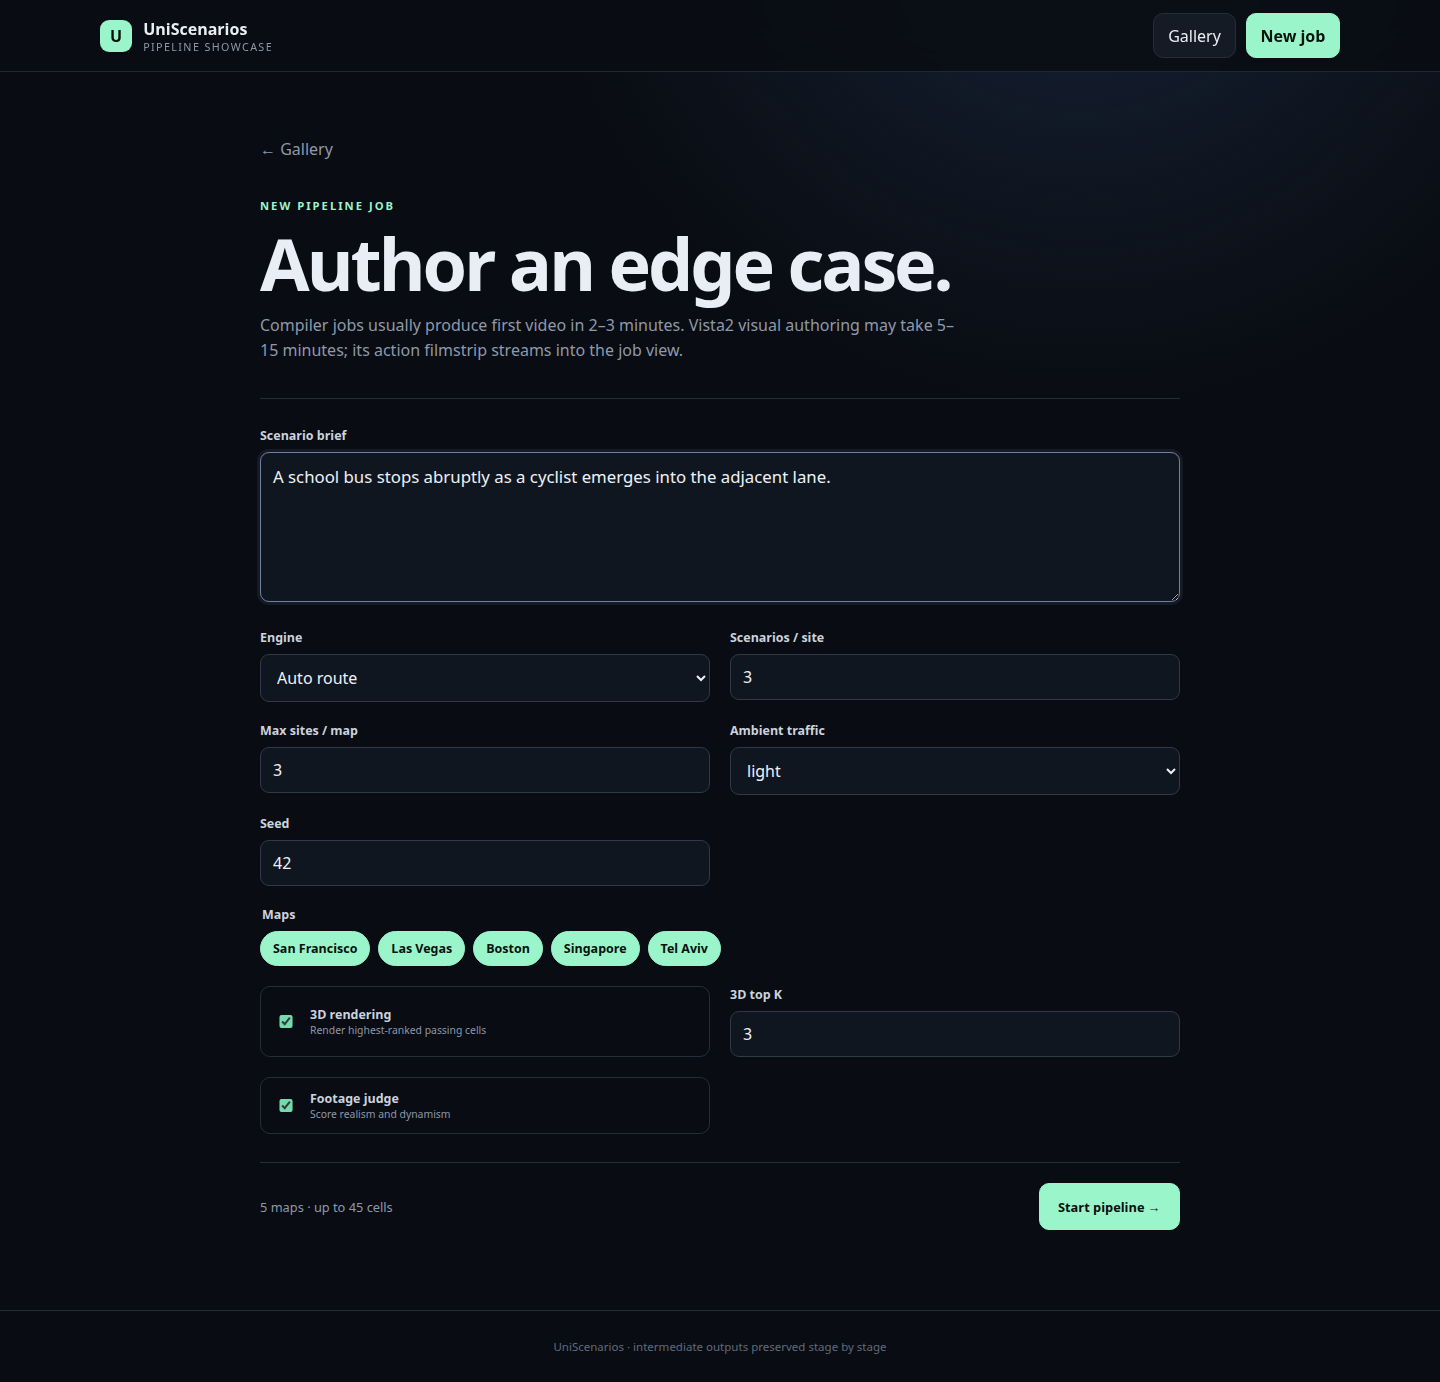
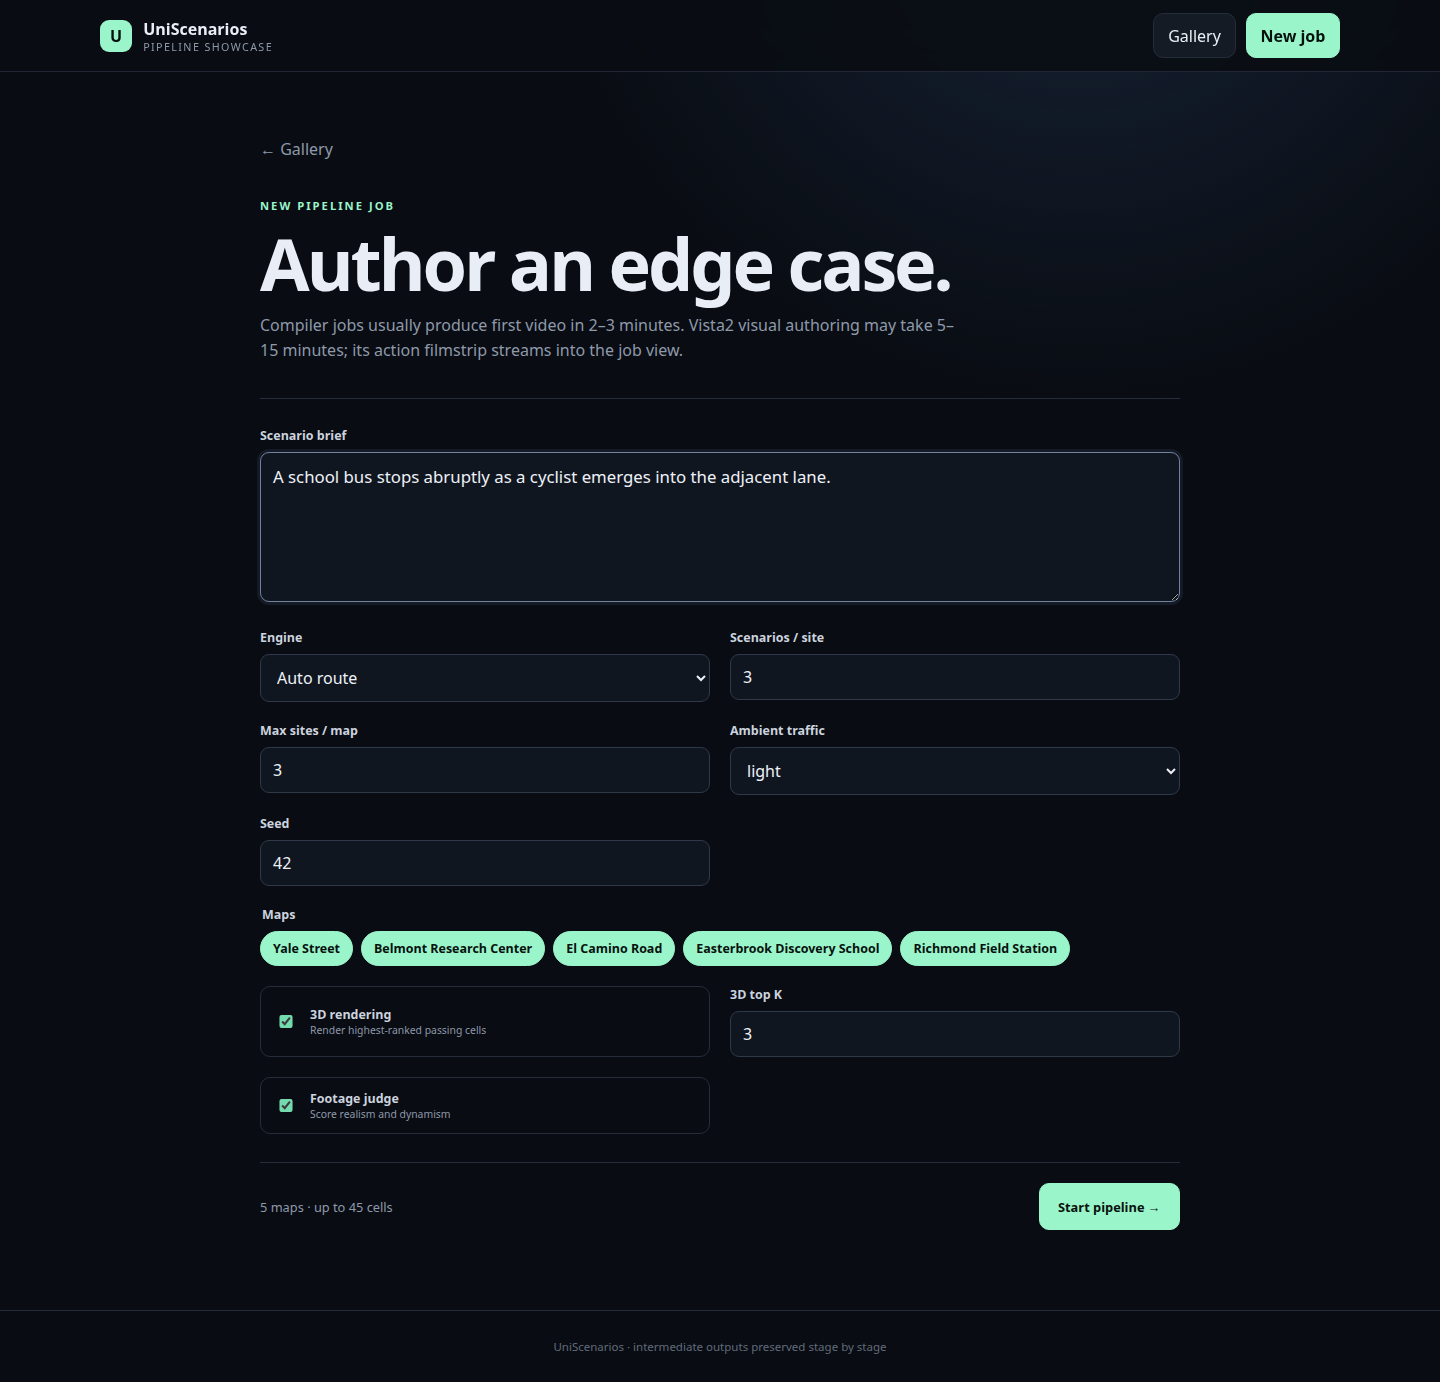
showcase(p4): use canonical map ids in submit flow

Changed region(s): [[0.1875, 0.6534, 0.75, 0.7156]]

diff --git a/apps/showcase/web/src/main.tsx b/apps/showcase/web/src/main.tsx
@@ -5,7 +5,14 @@ import { artifactKind, artifacts, cardId, cardMedia, cells, stageList, STAGES } 
 import type { Artifact, GalleryCard, JobIndex, StageEvent, SubmitPayload } from './types';
 import './style.css';
 
-const MAPS = ['San Francisco', 'Las Vegas', 'Boston', 'Singapore', 'Tel Aviv'];
+const MAPS = [
+  ['yale-street', 'Yale Street'],
+  ['belmont-research-center', 'Belmont Research Center'],
+  ['el-camino-road', 'El Camino Road'],
+  ['easterbrook-discovery-school', 'Easterbrook Discovery School'],
+  ['richmond-field-station', 'Richmond Field Station'],
+] as const;
+const mapLabel = (id: string) => MAPS.find(([mapId]) => mapId === id)?.[1] ?? id;
 
 function navigate(hash: string) { location.hash = hash; }
 function useRoute() {
@@ -39,7 +46,7 @@ function Gallery() {
       const id = cardId(card); const admitted = card.admitted ?? card.admittedCells ?? 0; const total = card.total ?? card.totalCells ?? 0;
       return <article class="gallery-card" key={id} onClick={() => navigate(`#/jobs/${encodeURIComponent(id)}`)} tabindex={0} onKeyDown={(e) => e.key === 'Enter' && navigate(`#/jobs/${encodeURIComponent(id)}`)}>
         <Media source={cardMedia(card)} label={card.brief ?? 'Scenario render'} loop />
-        <div class="card-body"><div class="chip-row"><Chip tone="engine">{card.engine ?? 'auto'}</Chip><Chip tone={admitted ? 'pass' : 'fail'}>{admitted}/{total} admitted</Chip></div><h2>{card.headline ?? card.brief ?? 'Untitled scenario'}</h2>{card.headline && <p>{card.brief}</p>}<div class="chip-row"><Score label="Realism" value={card.realism} /><Score label="Dynamism" value={card.dynamism} /></div><div class="map-row">{card.maps?.map((map) => <Chip key={map}>{map}</Chip>)}</div></div>
+        <div class="card-body"><div class="chip-row"><Chip tone="engine">{card.engine ?? 'auto'}</Chip><Chip tone={admitted ? 'pass' : 'fail'}>{admitted}/{total} admitted</Chip></div><h2>{card.headline ?? card.brief ?? 'Untitled scenario'}</h2>{card.headline && <p>{card.brief}</p>}<div class="chip-row"><Score label="Realism" value={card.realism} /><Score label="Dynamism" value={card.dynamism} /></div><div class="map-row">{card.maps?.map((map) => <Chip key={map}>{mapLabel(map)}</Chip>)}</div></div>
       </article>;
     })}</section>}
   </main>;
@@ -63,7 +70,7 @@ function StageCard({ event, index }: { event: StageEvent; index: number }) {
 function verdict(value?: boolean) { return value == null ? '—' : value ? 'PASS' : 'FAIL'; }
 function CellGrid({ job }: { job: JobIndex | null }) {
   const rows = cells(job); if (!rows.length) return <div class="empty small">Cells appear after simulation.</div>;
-  return <div class="cell-grid">{rows.map((cell) => { const gate = typeof cell.gate === 'boolean' ? cell.gate : cell.gate?.pass ?? cell.gate?.admitted; const judge = cell.judge; return <details class="cell" key={cell.cellId ?? cell.id}><summary><div><small>{cell.map ?? 'map'}</small><b>{cell.cellId ?? cell.id}</b></div><Chip tone={gate === true ? 'pass' : gate === false ? 'fail' : ''}>{verdict(gate)}</Chip></summary><div class="cell-body"><div class="chip-row"><Score label="Realism" value={judge?.realism} /><Score label="Dynamism" value={judge?.dynamism} />{judge?.plausible != null && <Chip tone={judge.plausible ? 'pass' : 'fail'}>{judge.plausible ? 'plausible' : 'implausible'}</Chip>}</div>{typeof cell.gate === 'object' && cell.gate.firstFailure && <p class="failure">First failure: {cell.gate.firstFailure}</p>}<div class="artifacts">{artifacts(cell).map((item, i) => <ArtifactView key={i} artifact={item} />)}</div><pre>{JSON.stringify(cell, null, 2)}</pre></div></details>; })}</div>;
+  return <div class="cell-grid">{rows.map((cell) => { const gate = typeof cell.gate === 'boolean' ? cell.gate : cell.gate?.pass ?? cell.gate?.admitted; const judge = cell.judge; return <details class="cell" key={cell.cellId ?? cell.id}><summary><div><small>{cell.map ? mapLabel(cell.map) : 'map'}</small><b>{cell.cellId ?? cell.id}</b></div><Chip tone={gate === true ? 'pass' : gate === false ? 'fail' : ''}>{verdict(gate)}</Chip></summary><div class="cell-body"><div class="chip-row"><Score label="Realism" value={judge?.realism} /><Score label="Dynamism" value={judge?.dynamism} />{judge?.plausible != null && <Chip tone={judge.plausible ? 'pass' : 'fail'}>{judge.plausible ? 'plausible' : 'implausible'}</Chip>}</div>{typeof cell.gate === 'object' && cell.gate.firstFailure && <p class="failure">First failure: {cell.gate.firstFailure}</p>}<div class="artifacts">{artifacts(cell).map((item, i) => <ArtifactView key={i} artifact={item} />)}</div><pre>{JSON.stringify(cell, null, 2)}</pre></div></details>; })}</div>;
 }
 
 function JobDetail({ id }: { id: string }) {
@@ -77,7 +84,7 @@ function JobDetail({ id }: { id: string }) {
   </main>;
 }
 
-const initial: SubmitPayload = { brief: '', engine: 'auto', nScenarios: 3, maps: [...MAPS], maxSitesPerMap: 3, ambient: 'light', seed: 42, render3d: true, topK: 3, judge: true };
+const initial: SubmitPayload = { brief: '', engine: 'auto', nScenarios: 3, maps: MAPS.map(([id]) => id), maxSitesPerMap: 3, ambient: 'light', seed: 42, render3d: true, topK: 3, judge: true };
 function Submit() {
   const [form, setForm] = useState(initial); const [busy, setBusy] = useState(false); const [error, setError] = useState<unknown>();
   const update = <K extends keyof SubmitPayload>(key: K, value: SubmitPayload[K]) => setForm((old) => ({ ...old, [key]: value }));
@@ -89,7 +96,7 @@ function Submit() {
       <label><span>Max sites / map</span><input type="number" min="1" max="20" value={form.maxSitesPerMap} onInput={(e) => update('maxSitesPerMap', e.currentTarget.valueAsNumber)} /></label>
       <label><span>Ambient traffic</span><select value={form.ambient} onChange={(e) => update('ambient', e.currentTarget.value as SubmitPayload['ambient'])}>{['off', 'light', 'moderate', 'city', 'heavy'].map((v) => <option value={v}>{v}</option>)}</select></label>
       <label><span>Seed</span><input type="number" value={form.seed} onInput={(e) => update('seed', e.currentTarget.valueAsNumber)} /></label>
-      <fieldset class="wide"><legend>Maps</legend><div class="map-options">{MAPS.map((map) => <label class="check"><input type="checkbox" checked={form.maps.includes(map)} onChange={(e) => update('maps', e.currentTarget.checked ? [...form.maps, map] : form.maps.filter((value) => value !== map))} /><span>{map}</span></label>)}</div></fieldset>
+      <fieldset class="wide"><legend>Maps</legend><div class="map-options">{MAPS.map(([id, label]) => <label class="check" key={id}><input type="checkbox" checked={form.maps.includes(id)} onChange={(e) => update('maps', e.currentTarget.checked ? [...form.maps, id] : form.maps.filter((value) => value !== id))} /><span>{label}</span></label>)}</div></fieldset>
       <label class="toggle"><input type="checkbox" checked={form.render3d} onChange={(e) => update('render3d', e.currentTarget.checked)} /><span><b>3D rendering</b><small>Render highest-ranked passing cells</small></span></label>
       <label><span>3D top K</span><input type="number" min="1" max="10" disabled={!form.render3d} value={form.topK} onInput={(e) => update('topK', e.currentTarget.valueAsNumber)} /></label>
       <label class="toggle"><input type="checkbox" checked={form.judge} onChange={(e) => update('judge', e.currentTarget.checked)} /><span><b>Footage judge</b><small>Score realism and dynamism</small></span></label>

diff --git a/research/edge-case-corpus/reports/rethink/showcase/REPORT.md b/research/edge-case-corpus/reports/rethink/showcase/REPORT.md
@@ -6,7 +6,7 @@ Implemented a Vite + Preact single-page frontend in `apps/showcase/web/` against
 
 - Gallery: responsive render-card grid with headline still/looping MP4 support, brief, engine, admitted-cell, realism, dynamism, and map chips.
 - Job detail: SSE connection and stage-status merge across stages 00→90, raw JSON expanders, image/video/download artifact views, Vista2 author-action filmstrip, and per-cell gate/judge verdicts.
-- Submit: every §1 knob is represented and posted using the frozen field names; a successful `{jobId}` response navigates directly to the live detail view.
+- Submit: every §1 knob is represented and posted using the frozen field names and the exact five repository map IDs; a successful `{jobId}` response navigates directly to the live detail view.
 - Auth token from `?token=` is preserved on REST, SSE, and artifact URLs.
 - A small contract-compatible mock server is available through `pnpm --filter showcase-web dev -- --mock`; it does not invent video and serves labeled stills for visual development.
 
@@ -22,10 +22,48 @@ vite v6.4.3 building for production...
 ✓ 9 modules transformed.
 dist/index.html                  0.45 kB │ gzip:  0.29 kB
 dist/assets/index-DK7YcmS9.css   8.54 kB │ gzip:  2.84 kB
-dist/assets/index-BKM5YBDy.js   27.34 kB │ gzip: 10.42 kB
-✓ built in 129ms
+dist/assets/index-C8ogr-F5.js   27.62 kB │ gzip: 10.55 kB
+✓ built in 143ms
 ```
 
-The production `dist/` bundle was served with `pnpm --filter showcase-web mock -- --static` and walked with `playwright-core` using `/usr/bin/google-chrome` at 1440×1000. Captures are committed in `p4-screens/`: `gallery.png`, `job-detail.png`, and `submit.png`.
+The production `dist/` bundle was served with `pnpm --filter showcase-web mock -- --static` and walked with `playwright-core` using `/usr/bin/google-chrome` at 1440×1000. The walkthrough also submitted the form and asserted navigation to the mock server's returned job ID. Captures are committed in `p4-screens/`: `gallery.png`, `job-detail.png`, and `submit.png`.
 
 Needs the real server: an end-to-end smoke against actual job-index shapes and generated image/video artifacts. The frontend uses adapters for both array- and object-shaped `stages`/`cells`, but the frozen contract does not prescribe the internal `/full` JSON schema, so this must be confirmed once P3 exposes a runnable server. The mock verifies all frozen endpoint names, POST field names, SSE event fields, navigation, and artifact rendering behavior.
+
+### P2 — 3D render tier + Q3D qualification
+
+#### Q3D milestone: qualified on real NVIDIA GPU
+
+The frozen gate tripwire passed before qualification (manifest v1 `1a08698e95fca4bc`, v2
+`3823182614e5a5ba`). Xvfb `:99`, system Chrome, and Studio were started with:
+
+```text
+Xvfb :99 -screen 0 1920x1080x24 +extension GLX +render -noreset
+DISPLAY=:99 pnpm --filter @uniscenarios/studio dev --host 127.0.0.1 --port 5199
+DISPLAY=:99 VK_ICD_FILENAMES=/usr/share/vulkan/icd.d/nvidia_icd.json \
+  /usr/bin/time -f 'WALL_SECONDS=%e' node scripts/verify-city-renderer.mjs \
+  --url 'http://127.0.0.1:5199/?map=belmont-research-center' \
+  --out /tmp/q3d-angle-vulkan-belmont --min-tiles 20 \
+  --settle 60000 --bench 15000 \
+  --chrome-flags '--use-gl=angle,--use-angle=vulkan,--enable-features=Vulkan'
+```
+
+Verdict: **Q3D GPU qualified**. The WebGL renderer was
+`ANGLE (NVIDIA, Vulkan 1.4.329 (NVIDIA NVIDIA GeForce RTX 5080 (0x00002C02)), NVIDIA)`
+(`Google Inc. (NVIDIA)`, driver 595.84). The complete Belmont city reached 20 resident tiles in
+10.196 s. The 15.057 s, 1600×960 orbit benchmark rendered 212 frames at 14.080 average FPS
+(p50 63.5 ms, p95 134.4 ms, minimum 5.319 FPS). The complete verifier took 48.55 s, exercised
+city/vegetation visibility, orbit and fly controls, and reported zero console errors. Raw results
+and five screenshots are in `p2-q3d/`.
+
+Qualification harness fixes were necessary and are part of P2: seed Studio's required first-run
+`balanced` quality preference, report the unmasked WebGL renderer and Chrome flags, allow a
+map-appropriate resident-tile threshold, choose a street camera from the current map's longest
+lane, and exercise current viewer layer groups instead of removed UI test IDs.
+
+The default Yale qualification could not be used honestly: its local manifest references 132 LOD
+files, but 111 are absent from `dev-assets/yale-street/3d/tiles/`; requests returned Vite's HTML
+fallback and the old verifier timed out. The other four map bundles have all manifest-referenced LOD
+files. Belmont was selected because its bundle is complete. Baseline Chrome without ANGLE Vulkan
+reported `ANGLE (Mesa, llvmpipe (LLVM 20.1.2 256 bits), OpenGL 4.5)` and timed out at the old
+30-tile gate; it is not the qualified configuration.
